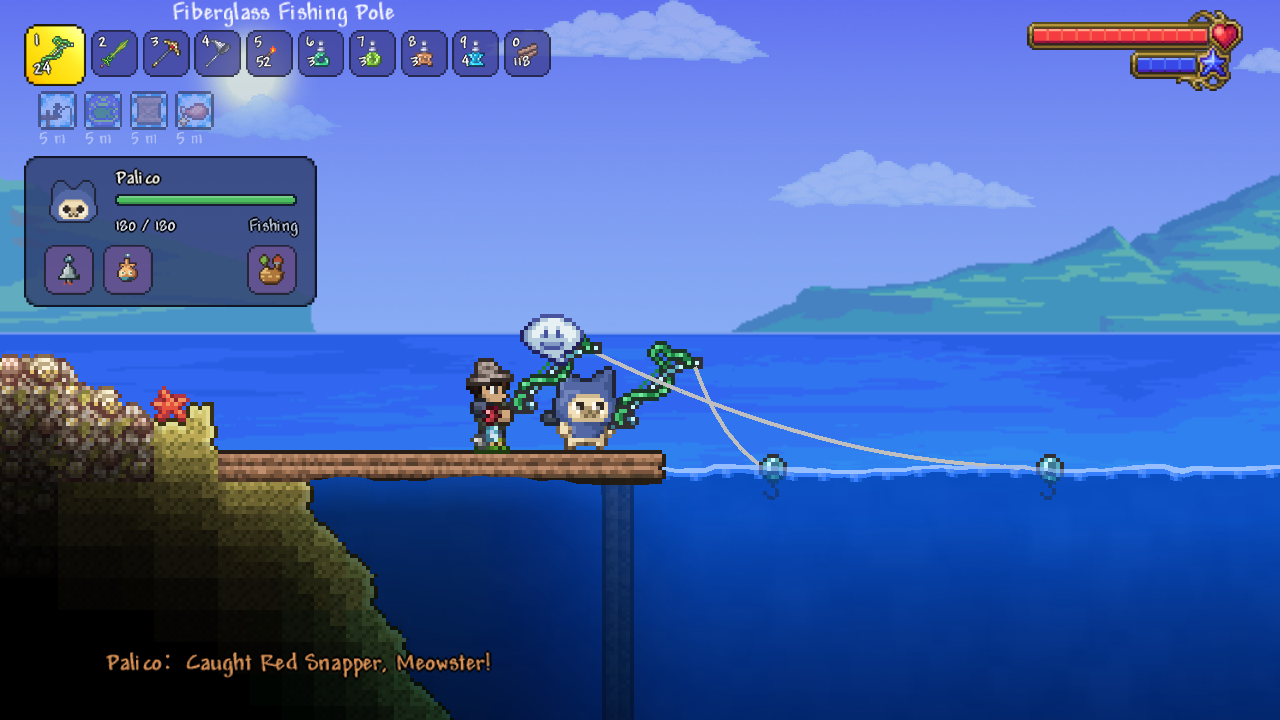
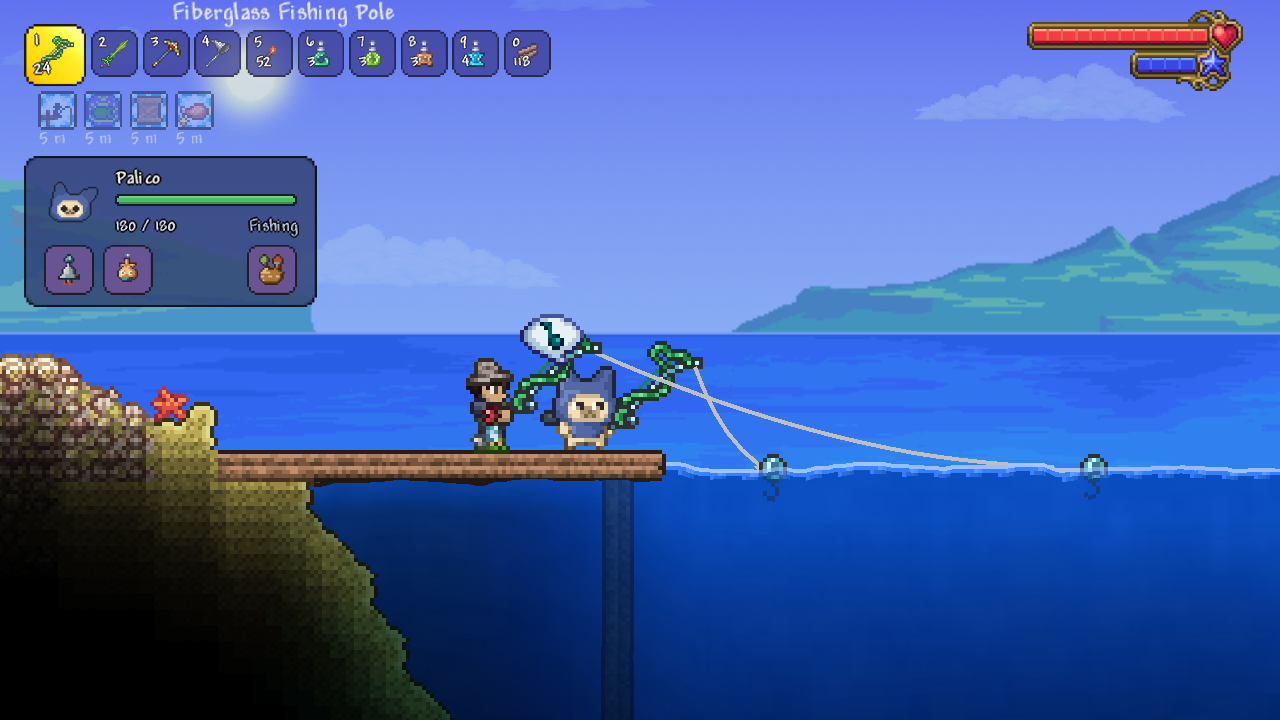
Release 1.0.6: refresh Palico artwork and Workshop media

diff --git a/Systems/CompanionStatusBar.cs b/Systems/CompanionStatusBar.cs
@@ -71,7 +71,7 @@ public static class CompanionStatusBar {
     static SpriteBatch pixelBatch;
     static bool pixelLayerFailed;
     // Native-resolution head exported from the mod icon.
-    public static readonly Rectangle PortraitSource=new(0,0,27,24);
+    public static Rectangle PortraitSource=>CompanionSprite.Head?.Bounds??new Rectangle(0,0,31,26);
     internal static Rectangle FitPortraitPixels(Rectangle bounds,float scale){
         float zoom=Math.Min(bounds.Width*scale/PortraitSource.Width,bounds.Height*scale/PortraitSource.Height);
         int width=(int)MathF.Round(PortraitSource.Width*zoom),height=(int)MathF.Round(PortraitSource.Height*zoom);
@@ -81,8 +81,9 @@ public static class CompanionStatusBar {
         var r=Bounds(p);
         // Fit continuously with UI scale, like native UI images. Compensate
         // for the transparent source margin to retain the visible left edge.
-        float width=44*scale,height=width*24/27;
-        return new Rectangle(TrainingHud.LeftEdge(p.GetModPlayer<CompanionPlayer>(),scale,offset)+(int)MathF.Round(4*scale-width/27),
+        var source=PortraitSource;
+        float width=44*scale,height=width*source.Height/source.Width;
+        return new Rectangle(TrainingHud.LeftEdge(p.GetModPlayer<CompanionPlayer>(),scale,offset)+(int)MathF.Round(4*scale-width/source.Width),
             (int)MathF.Round((r.Y+38)*scale+offset.Y-height/2f),(int)MathF.Round(width),(int)MathF.Round(height));
     }
     // Keep health-bar geometry on physical pixels. Portraits and skill slots

diff --git a/CompanionPanel.cs b/CompanionPanel.cs
@@ -51,7 +51,8 @@ public sealed class CompanionPanel : ModSystem
     internal static Rectangle HeaderPortraitPixels(Rectangle area,float scale){
         // Scale continuously with the header, retaining its shared centre at
         // 24 and eight UI pixels of space above the portrait.
-        int width=(int)MathF.Round(36*scale),height=(int)MathF.Round(32*scale);
+        var source=CompanionStatusBar.PortraitSource;
+        int width=(int)MathF.Round(36*scale),height=(int)MathF.Round(36*scale*source.Height/source.Width);
         return new Rectangle((int)MathF.Round((area.X+16)*scale),
             (int)MathF.Round((area.Y+24)*scale-height/2f),width,height);
     }

diff --git a/README.en.md b/README.en.md
@@ -1,7 +1,7 @@
 <p align="center"><img src="docs/images/palico-companion.gif" alt="Palico Companion" width="240"></p>
 <h1 align="center">Palico Companion</h1>
 <p align="center">A tModLoader companion mod inspired by Monster Hunter's Felynes.</p>
-<p align="center"><a href="https://steamcommunity.com/sharedfiles/filedetails/?id=3824240391">Steam Workshop</a> · <a href="https://youtu.be/9R5gHG-Hgbc">Watch on YouTube</a> · <a href="README.md">简体中文</a> · <a href="https://github.com/lbnandy/palico-companion/issues">Report an issue</a></p>
+<p align="center"><a href="https://steamcommunity.com/sharedfiles/filedetails/?id=3824240391">Steam Workshop</a> · <a href="README.md">简体中文</a> · <a href="https://github.com/lbnandy/palico-companion/issues">Report an issue</a></p>
 
 ## Adventure together
 

diff --git a/docs/ASSETS.md b/docs/ASSETS.md
@@ -3,7 +3,7 @@
 | 文件 | 用途 / Purpose |
 | --- | --- |
 | `Assets/Palico.png` | 31 × 28 像素一帧，22 帧纵向排列 / 22 vertically stacked 31 × 28 frames |
-| `Assets/Palico-head.png` | 27 × 24 的 UI 头像 / 27 × 24 UI portrait |
+| `Assets/Palico-head.png` | 31 × 26 的 UI 头像 / 31 × 26 UI portrait |
 | `Assets/FlightKite.png` | 飞行风筝 / Flight kite |
 | `Assets/Training/` | 装备与工作台贴图 / Equipment and workbench sprites |
 | `Assets/GripOffsets.csv` | 投射物类型、朝向、握持偏移 X/Y / Projectile type, direction, grip offset X/Y |

diff --git a/CHANGELOG.md b/CHANGELOG.md
@@ -1,5 +1,13 @@
 # Changelog
 
+## 1.0.6 — 2026-10-24
+
+- 更新呆猫形象、界面头像与模组图标。
+- 刷新工坊封面及展示图片。
+
+- Updated the Palico sprites, UI portrait and mod icons.
+- Refreshed the Workshop cover and gallery images.
+
 ## 1.0.5 — 2026-10-24
 
 - 新增暂停环境改动按钮及可自定义快捷键，建房时可暂停呆猫的自动挖掘、采集和放置行为。
